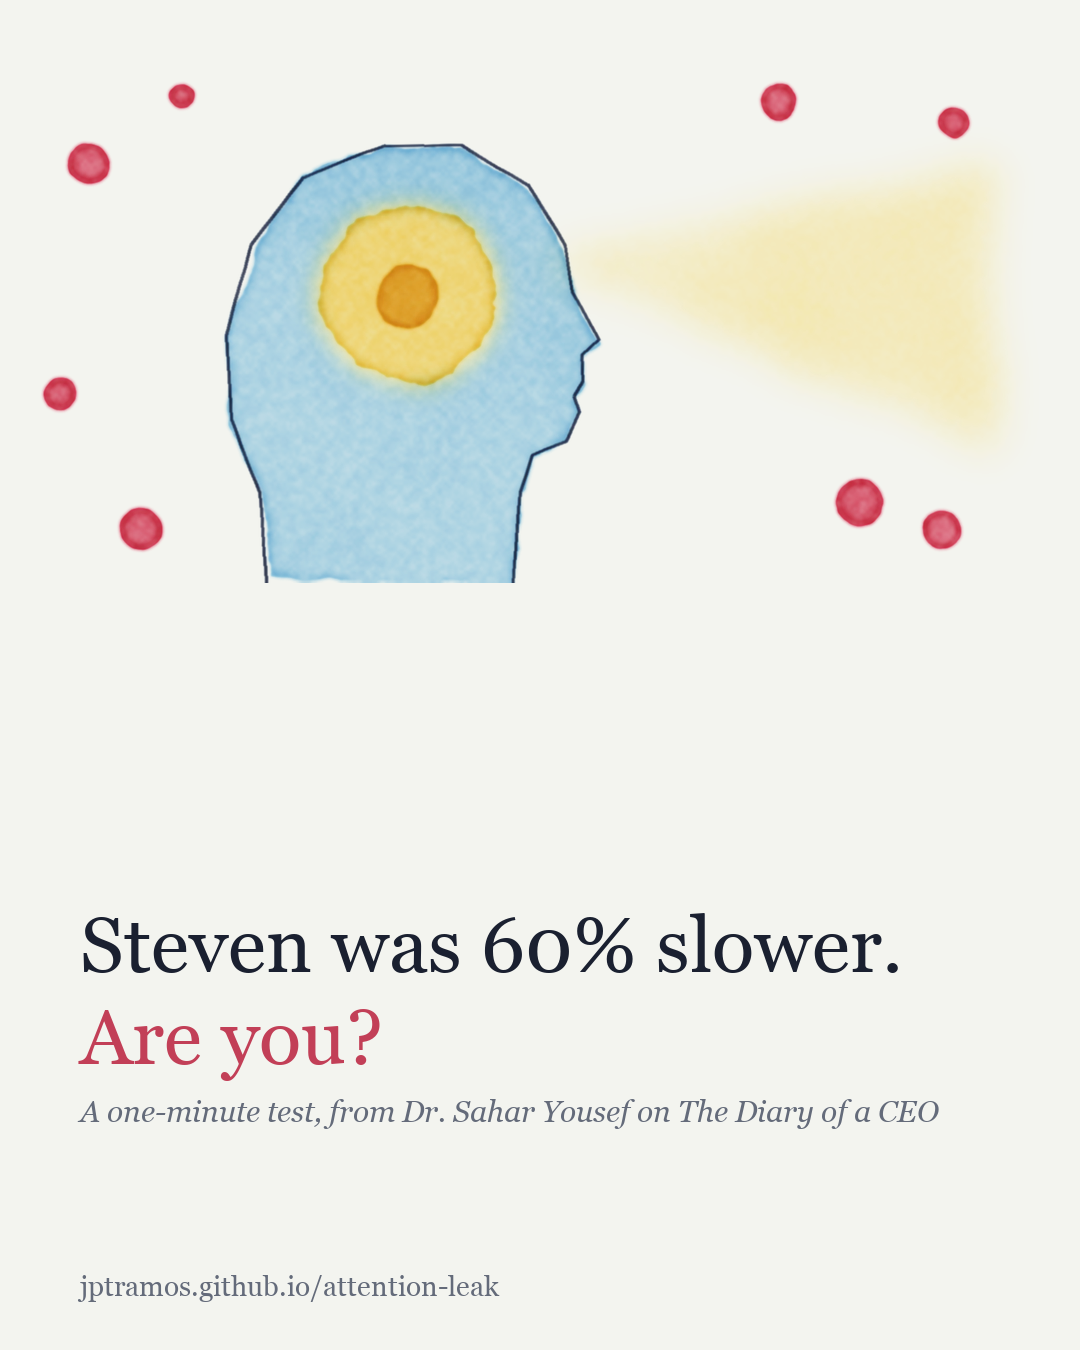
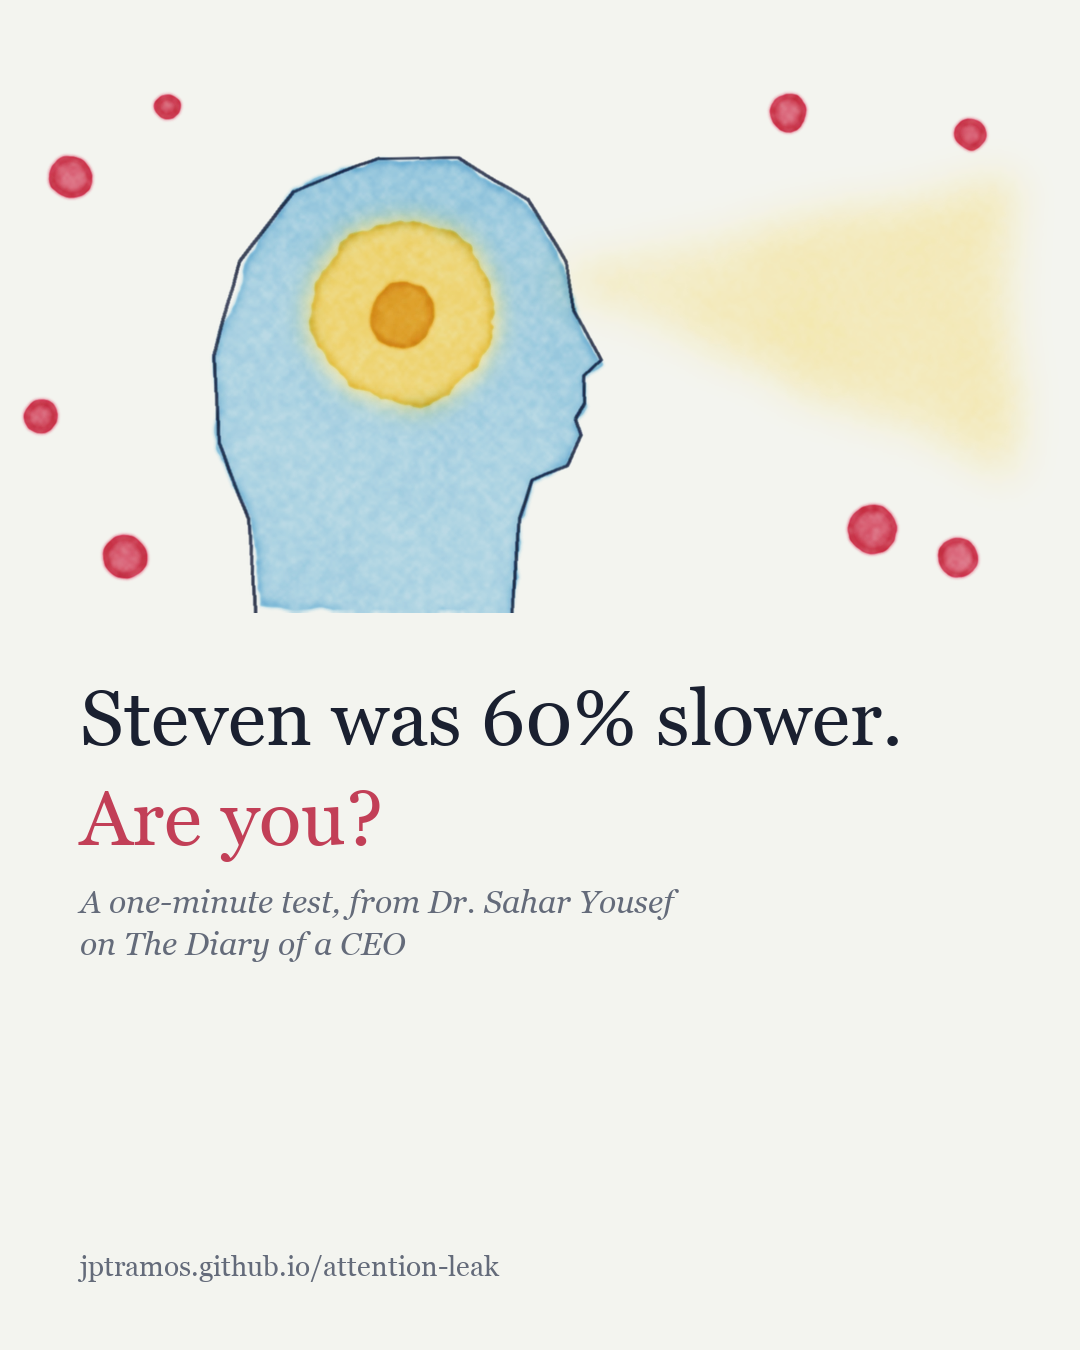
Deep links open collapsed chapters; carousel frame 1 layout; byline

diff --git a/index.html b/index.html
@@ -382,7 +382,7 @@ footer{padding-block:80px 60px;text-align:center;font-family:var(--ui);font-size
     <div class="kicker">The Diary of a CEO · Illustrated</div>
     <h1 style="margin-top:14px" id="headline">You can't remember what you never noticed.</h1>
     <p class="deck">Attention is the gate to memory. Somebody is holding it open for a living. Neuroscientist Dr. Sahar Yousef on how to shut it.</p>
-    <div class="byline"><span>Conversation: <b>Steven Bartlett</b> (@StevenBartlett) × <b>Dr. Sahar Yousef</b>, UC Berkeley</span><span>8-minute skim · open any chapter for the full 16 · 10 fixes · 4 things to try</span><span class="skimtog" role="group" aria-label="Reading mode"><button type="button" data-m="skim">Skim</button><button type="button" data-m="full" class="on">Full</button></span><span><a href="https://youtu.be/yePLuwL3FbM" target="_blank" rel="noopener">Watch the episode ↗</a></span></div>
+    <div class="byline"><span>Conversation: <b>Steven Bartlett</b> (@StevenBartlett) × <b>Dr. Sahar Yousef</b>, UC Berkeley</span><span>8-minute skim · open any chapter for the full 16 · 10 fixes · 4 things to try in the full chapters</span><span class="skimtog" role="group" aria-label="Reading mode"><button type="button" data-m="skim">Skim</button><button type="button" data-m="full" class="on">Full</button></span><span><a href="https://youtu.be/yePLuwL3FbM" target="_blank" rel="noopener">Watch the episode ↗</a></span></div>
   </div>
   <div class="hero-art"><img class="plate" src="img/hero.webp" alt="Watercolor of a head in profile. A warm glow sits where the mind is and a beam of light shines forward from the eyes, while red dots crowd the edges like notifications." width="1400" height="962"></div>
 </header>
@@ -851,7 +851,7 @@ const store={get(k){try{return localStorage.getItem(k)}catch(e){return null}},se
 
 if(!RM&&document.visibilityState==='visible')document.documentElement.classList.add('anim');
 /* skim mode */
-(()=>{const btns=$$('.skimtog button');const set=m=>{document.documentElement.classList.toggle('skim',m==='skim');btns.forEach(b=>b.classList.toggle('on',b.dataset.m===m));store.set('mode',m)};btns.forEach(b=>b.addEventListener('click',()=>set(b.dataset.m)));set(store.get('mode')==='full'?'full':'skim');$$('.more').forEach(b=>b.addEventListener('click',()=>{b.closest('.part').classList.add('open')}))})();
+(()=>{const btns=$$('.skimtog button');const set=m=>{document.documentElement.classList.toggle('skim',m==='skim');btns.forEach(b=>b.classList.toggle('on',b.dataset.m===m));store.set('mode',m)};btns.forEach(b=>b.addEventListener('click',()=>set(b.dataset.m)));set(store.get('mode')==='full'?'full':'skim');$$('.more').forEach(b=>b.addEventListener('click',()=>{b.closest('.part').classList.add('open')}));const openHash=()=>{let h=null;try{h=location.hash&&document.querySelector(location.hash)}catch(e){}if(h){const p=h.closest('.part');if(p)p.classList.add('open');h.scrollIntoView()}};openHash();addEventListener('hashchange',openHash)})();
 /* headline word stagger */
 (()=>{const h=$('#headline');if(RM)return;let i=0;const walk=n=>{[...n.childNodes].forEach(c=>{if(c.nodeType===3){const f=document.createDocumentFragment();c.textContent.split(/(\s+)/).forEach(w=>{if(!w.trim()){f.append(w);return}const s=document.createElement('span');s.className='w';s.style.animationDelay=(i++*70)+'ms';s.textContent=w;f.append(s)});c.replaceWith(f)}else walk(c)})};walk(h)})();
 
